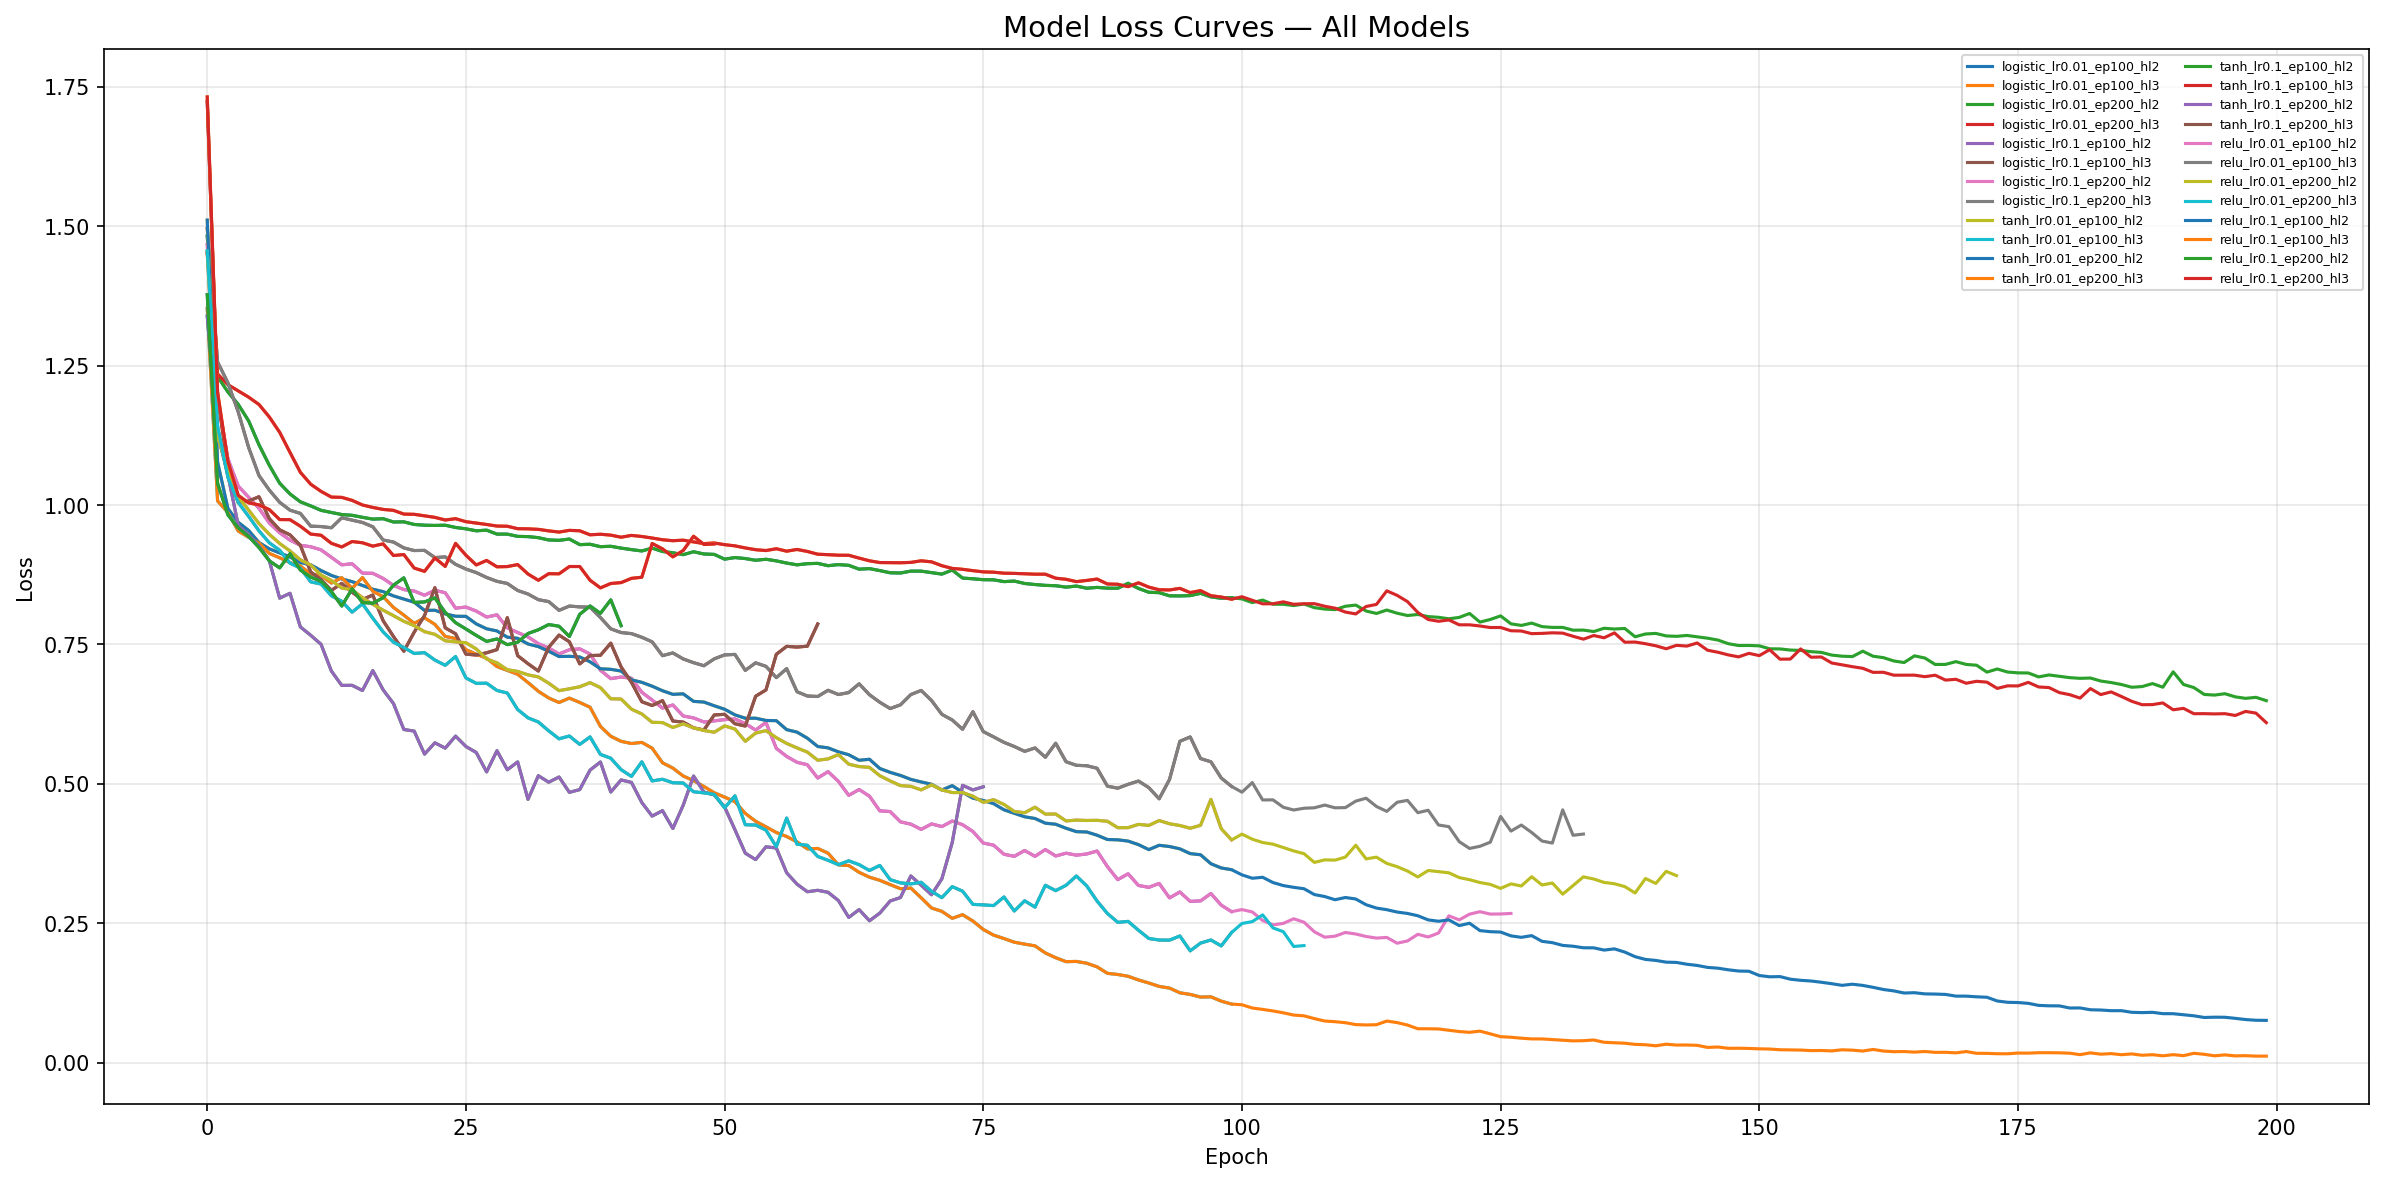
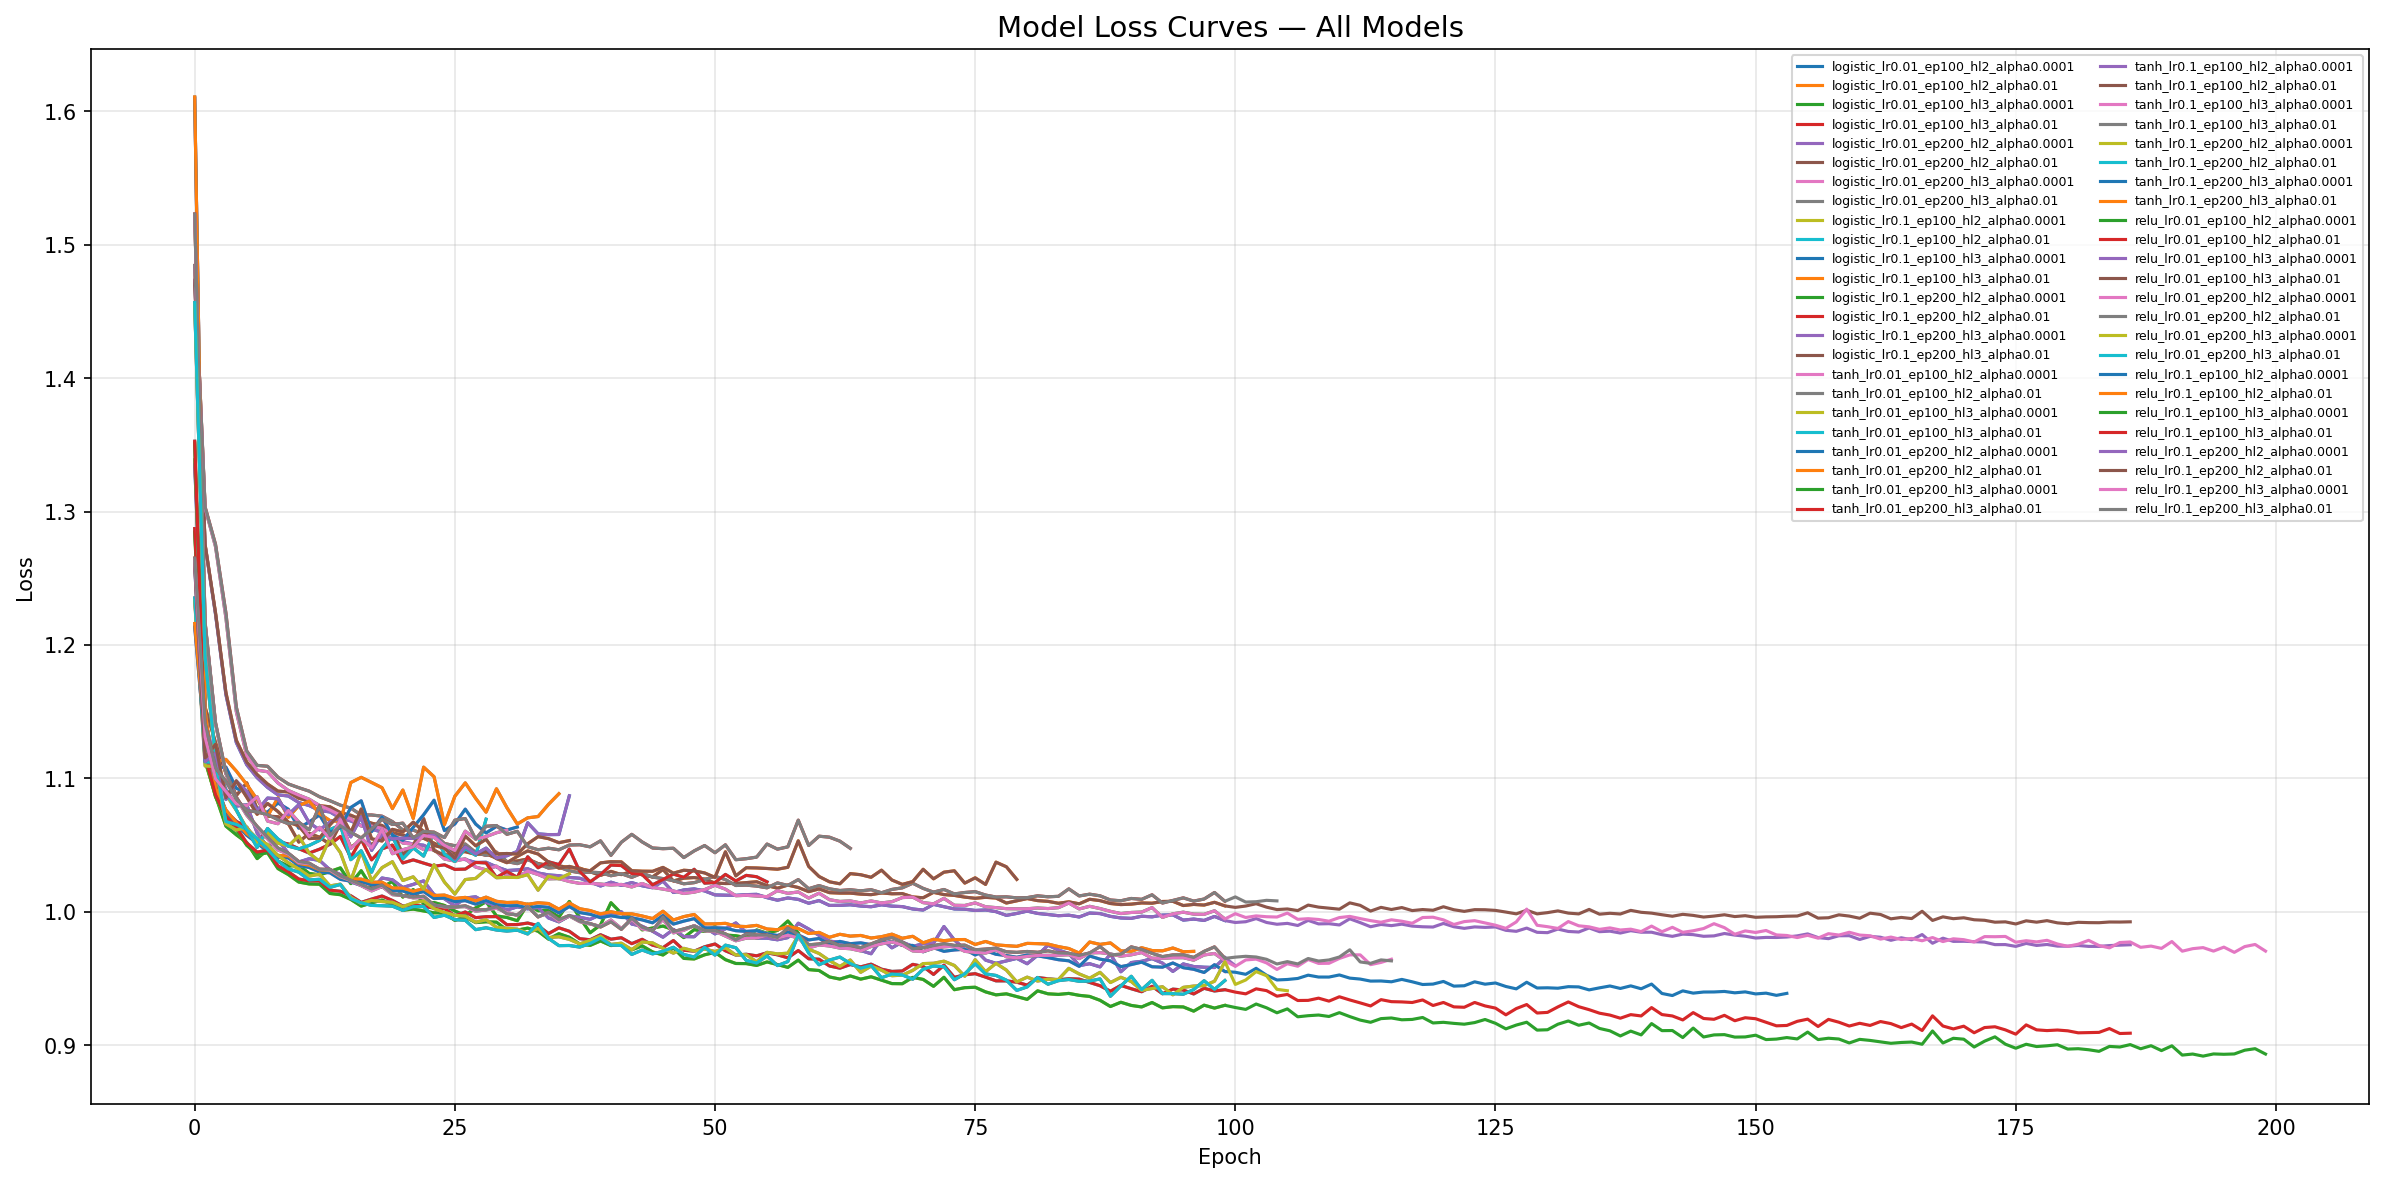
I am done

diff --git a/NeuralNet.py b/NeuralNet.py
@@ -67,64 +67,67 @@ class NeuralNet:
         )
 
         # Hyper-parameter grid
-        # logistic - sigmoid 
+        # logistic = sigmoid 
         activations = ['logistic', 'tanh', 'relu']
         learning_rates = [0.01, 0.1]
         max_iterations = [100, 200]          # epochs
         num_hidden_layers = [2, 3]
-        neurons_per_layer = 32               # fixed neuron count per hidden layer
+        neurons_per_layer = 12               # fixed neuron count per hidden layer
+        alphas = [0.0001, 0.01]               # L2 regularization strength 
 
         # Train all models
         results = []
         model_curves = {}                    # label -> loss_curve
 
         total = (len(activations) * len(learning_rates) *
-                 len(max_iterations) * len(num_hidden_layers))
+                 len(max_iterations) * len(num_hidden_layers) * len(alphas))
         count = 0
 
         for act in activations:
             for lr in learning_rates:
                 for epochs in max_iterations:
                     for n_layers in num_hidden_layers:
-                        count += 1
-                        hidden = tuple([neurons_per_layer] * n_layers)
-                        label = f"{act}_lr{lr}_ep{epochs}_hl{n_layers}"
+                        for alpha in alphas:
+                            count += 1
+                            hidden = tuple([neurons_per_layer] * n_layers)
+                            label = f"{act}_lr{lr}_ep{epochs}_hl{n_layers}_alpha{alpha}"
 
-                        print("\n")
-                        print(f"  Training model {count}/{total}: {label} …", end=" ")
+                            print("\n")
+                            print(f"  Training model {count}/{total}: {label} …", end=" ")
 
-                        mlp = MLPClassifier(
-                            hidden_layer_sizes=hidden,
-                            activation=act,
-                            learning_rate_init=lr,
-                            max_iter=epochs,
-                            random_state=42
-                        )
-                        mlp.fit(X_train, y_train)
+                            mlp = MLPClassifier(
+                                hidden_layer_sizes=hidden,
+                                activation=act,
+                                learning_rate_init=lr,
+                                max_iter=epochs,
+                                alpha=alpha,
+                                random_state=42
+                            )
+                            mlp.fit(X_train, y_train)
 
-                        # Predictions
-                        pred_train = mlp.predict(X_train)
-                        pred_test  = mlp.predict(X_test)
+                            # Predictions
+                            pred_train = mlp.predict(X_train)
+                            pred_test  = mlp.predict(X_test)
 
-                        # Metrics
-                        acc_train = mlp.score(X_train, y_train)
-                        acc_test  = mlp.score(X_test, y_test)
-                        mse_train = mean_squared_error(y_train, pred_train)
-                        mse_test  = mean_squared_error(y_test, pred_test)
+                            # Metrics
+                            acc_train = mlp.score(X_train, y_train)
+                            acc_test  = mlp.score(X_test, y_test)
+                            mse_train = mean_squared_error(y_train, pred_train)
+                            mse_test  = mean_squared_error(y_test, pred_test)
 
-                        results.append({
-                            "Model": label,
-                            "Activation": act,
-                            "Learning Rate": lr,
-                            "Epochs": epochs,
-                            "Hidden Layers": n_layers,
-                            "Train Accuracy": round(acc_train, 4),
-                            "Test Accuracy": round(acc_test, 4),
-                            "Train MSE": round(mse_train, 4),
-                            "Test MSE": round(mse_test, 4),
-                        })
-                        model_curves[label] = mlp.loss_curve_
-                        print("done")
+                            results.append({
+                                "Model": label,
+                                "Activation": act,
+                                "Learning Rate": lr,
+                                "Epochs": epochs,
+                                "Hidden Layers": n_layers,
+                                "Train Accuracy": round(acc_train, 4),
+                                "Test Accuracy": round(acc_test, 4),
+                                "Train MSE": round(mse_train, 4),
+                                "Test MSE": round(mse_test, 4),
+                            })
+                            model_curves[label] = mlp.loss_curve_
+                            print("done")
 
         # Results Table
         results_df = pd.DataFrame(results)
@@ -186,10 +189,9 @@ class NeuralNet:
 
 
 if __name__ == "__main__":
-    # Fetch Wine Quality dataset from UCI ML Repo (RED ONLY)
+    # Fetch Wine Quality dataset from UCI ML Repo (Red & White)
     repo = fetch_ucirepo(id=186)
     df = repo.data.original.copy()
-    df = df[df['color'] == 'red'].drop('color', axis=1)  # filter + drop color column
     neural_network = NeuralNet(df)
     neural_network.preprocess()
     neural_network.train_evaluate()

diff --git a/README.md b/README.md
@@ -2,20 +2,40 @@
 
 ## Overview
 
-This project trains and evaluates multiple neural network models on the **Wine Quality (Red)** dataset from the UCI Machine Learning Repository. It explores all combinations of the following hyper-parameters and produces performance metrics and loss-curve plots.
+This project trains and evaluates multiple neural network models on the **Wine Quality** dataset (Red & White) from the UCI Machine Learning Repository. All combinations of the hyperparameters below are explored, producing performance metrics and loss-curve plots.
+
+---
 
 ## Dataset
 
-**Wine Quality — Red Wine**  
-UCI ML Repository: <https://archive.ics.uci.edu/ml/datasets/Wine+Quality>  
-Fetched programmatically using the `ucimlrepo` Python package (dataset ID: 186), filtered to red wine only.
+**Wine Quality (Red & White)**  
+UCI ML Repository ID: `186`  
+URL: https://archive.ics.uci.edu/ml/datasets/Wine+Quality
 
-The dataset contains 1,599 samples (1,359 after deduplication) with 11 physicochemical input features and one output feature (`quality`, an integer score from 3–8).
+Fetched programmatically using the `ucimlrepo` Python package. The combined dataset contains **5,320 samples** (after deduplication) with **12 physicochemical input features** and one output feature (`quality`, integer score 3–9).
+
+---
 
 ## Requirements
 
 - Python 3.8+
-- Packages listed in `requirements.txt`
+
+Install all dependencies via:
+
+```bash
+pip install -r requirements.txt
+```
+
+**`requirements.txt`**
+```
+numpy
+pandas
+matplotlib
+scikit-learn
+ucimlrepo
+```
+
+---
 
 ## How to Run
 
@@ -32,50 +52,91 @@ pip install -r requirements.txt
 python NeuralNet.py
 ```
 
-### Output
+---
 
-- A **results table** printed to the console showing hyper-parameters, training/test accuracy, and training/test MSE for every model.
-- **`model_history_all.png`** — Loss vs. epoch plot with all 24 models on a single figure.
-- **`model_history_by_activation.png`** — Loss vs. epoch plots split by activation function.
+## Output
 
-## Hyper-Parameter Grid
+Running the program produces:
 
-| Parameter | Values |
+| Output | Description |
 |---|---|
-| Activation Function | `logistic`, `tanh`, `relu` |
+| Console table | Hyperparameters, train/test accuracy, train/test MSE for all 48 models |
+| `model_history_all.png` | Loss vs. epoch for all 48 models on a single figure |
+| `model_history_by_activation.png` | Loss vs. epoch split into 3 subplots by activation function |
+
+---
+
+## Hyperparameter Grid
+
+| Parameter | Values Tested |
+|---|---|
+| Activation Function | `logistic` (sigmoid), `tanh`, `relu` |
 | Learning Rate | `0.01`, `0.1` |
 | Max Iterations (Epochs) | `100`, `200` |
 | Hidden Layers | `2`, `3` |
+| L2 Regularization (alpha) | `0.0001`, `0.01` |
+| Neurons per Hidden Layer | `12` (fixed) |
 
-Total combinations: **3 × 2 × 2 × 2 = 24 models**
+**Total combinations: 3 × 2 × 2 × 2 × 2 = 48 models**
+
+---
 
 ## Pre-processing Steps
 
-1. **Duplicate removal** — Dropped exact duplicate rows (1,599 → 1,359).
-2. **Missing value handling** — Filled numeric NaN values with the column mean.
-3. **Categorical encoding** — Any non-numeric columns are label-encoded.
-4. **Standardization** — Z-score normalization applied to all features.
+1. **Duplicate removal** — Exact duplicate rows dropped (5,320 unique rows remain).
+2. **Feature/target split** — `quality` used as the target; all other columns used as features.
+3. **Missing value handling** — Numeric NaN values filled with the column mean.
+4. **Categorical encoding** — Non-numeric columns label-encoded with `LabelEncoder`.
+5. **Standardization** — Z-score normalization applied to all features.
+
+---
 
 ## Results Summary
 
-After training all 24 models on red wine data, the key findings are:
+| Metric | Model | Value |
+|---|---|---|
+| **Best test accuracy** | `logistic_lr0.01_ep200_hl2_alpha0.01` | **58.08%** |
+| **Worst test accuracy** | `tanh_lr0.1_ep100_hl2_alpha0.01` | **51.13%** |
 
-- **Best model:** `logistic_lr0.01_ep100_hl3` with **62.87% test accuracy**
-- **Worst model:** `relu_lr0.01_ep200_hl2` with **48.90% test accuracy**
-- **Logistic activation** performed best on average (avg test accuracy: **0.5551**), likely because the dataset is small and well-scaled, where logistic converges reliably without overfitting aggressively
-- **ReLU** was second (avg test accuracy: **0.5492**), performing comparably to logistic in several configurations
-- **Tanh** performed worst on average (avg test accuracy: **0.5345**) and showed severe overfitting — for example, `tanh_lr0.01_ep200_hl3` reached 99.91% train accuracy but only 52.94% test accuracy
-- **Lower learning rate (0.01)** consistently produced better generalization than 0.1, which caused unstable or aggressive training
-- **100 epochs often outperformed 200 epochs** — additional training without regularization led to overfitting rather than improved generalization
-- **Several models with lr=0.1 plateaued** before 100 epochs, producing identical results at ep100 vs ep200 (e.g., both `tanh_lr0.1_ep100_hl2` and `tanh_lr0.1_ep200_hl2` show identical metrics)
-- **3 hidden layers did not consistently outperform 2** — the dataset is relatively small and does not always benefit from the added depth
+### Average Test Accuracy by Activation Function
 
-Overall, the dataset favors stable, conservative optimization. The logistic activation with a low learning rate and fewer epochs generalized best, while deeper or more aggressively trained models tended to overfit. The dataset type Wine Quality and dataset size also make it hard to get better test accuracy. We experimented added L2 regularization (alpha) and it didn't help much either.
+| Activation | Avg. Test Accuracy |
+|---|---|
+| `logistic` | 0.5592 |
+| `relu` | 0.5471 |
+| `tanh` | 0.5393 |
+
+---
+
+## Analysis
+
+### Activation Functions
+**Logistic (sigmoid)** achieved the highest average test accuracy (55.92%) and produced the single best model. **ReLU** ranked second (54.71%), while **tanh** ranked last (53.93%). The ~2 percentage point gap between logistic and tanh is meaningful given the narrow overall accuracy range.
+
+### Learning Rate
+A learning rate of **0.01** consistently outperformed **0.1** — particularly for logistic and tanh activations. The best overall model used lr=0.01. Higher learning rates (0.1) increased the risk of overshooting minima, as seen with tanh where the worst model (tanh_lr0.1_ep100_hl2_alpha0.01, 51.13%) was also a high-lr configuration. ReLU was more resilient to this effect.
+
+### Number of Epochs (100 vs. 200)
+With early stopping removed, the epoch budget now has a genuine effect. Several models improved meaningfully at 200 epochs — for example, logistic_lr0.01_ep200_hl2_alpha0.01 (58.08%) outperforms its 100-epoch counterpart (57.33%). This confirms 100 epochs was sometimes insufficient for convergence at lr=0.01, and the extra budget was put to use.
+
+### Depth (2 vs. 3 Hidden Layers)
+Results were mixed. For logistic at lr=0.01, 2 hidden layers slightly outperformed 3. For tanh and relu, 3 layers sometimes produced higher training accuracy but did not reliably improve test accuracy, suggesting some overfitting with deeper networks with this amount of neurons.
+
+### L2 Regularization (alpha)
+The effect of alpha was small but visible. In the logistic group, alpha=0.01 produced the best single model (58.08%), showing that a regularization penalty helped generalization on this noisy dataset. In the tanh group, higher alpha sometimes hurt — notably the worst model overall used alpha=0.01 with lr=0.1. Adding alpha though helped with overfitting massivly though. Before adding alpha in our model, overfitting was a problem. Some models had 91% train accuracy and 50% test accuracy. 
+
+### Overfitting
+Several tanh and relu models show a noticeable train/test accuracy gap (e.g., tanh_lr0.01_ep200_hl3_alpha0.0001: train 62.92%, test 54.42%), indicating overfitting. Logistic models showed more balanced train/test gaps, contributing to stronger generalization.
+
+### Overall
+All models fall in a ~51-58% accuracy range, this shows the true difficulty of the 7-class problem. The class distribution is heavily skewed toward quality scores 5 and 6, making minority classes (3, 4, 8, 9) hard to predict. Logistic activation with a low learning rate, 2 hidden layers, and moderate regularization generalized best on this dataset.
+---
 
 ## Assumptions
 
-- Fixed 32 neurons per hidden layer across all models
-- Used loss curve (not accuracy curve) for model history plots
-- 80/20 train/test split with `random_state=42`
-- No regularization applied (used sklearn default)
-- Dataset ID 186 from `ucimlrepo` contains both red and white wine; code explicitly filters to red wine only and drops the `color` column before training
+- Neurons per hidden layer is fixed at **12** across all models.
+- **Loss curve** is used for model history plots, as `MLPClassifier` exposes `loss_curve_` directly.
+- An **80/20 train/test split** is used with `random_state=42` for reproducibility.
+- `MLPClassifier` parameters used: `hidden_layer_sizes`, `activation`, `learning_rate_init`, `max_iter`, `alpha`, `random_state=42`. No early stopping is applied.
+- Dataset ID `186` from `ucimlrepo` contains both red and white wine samples; both are used to increase sample size.
+- The `color` column (red/white indicator) is retained as a feature after label encoding.
